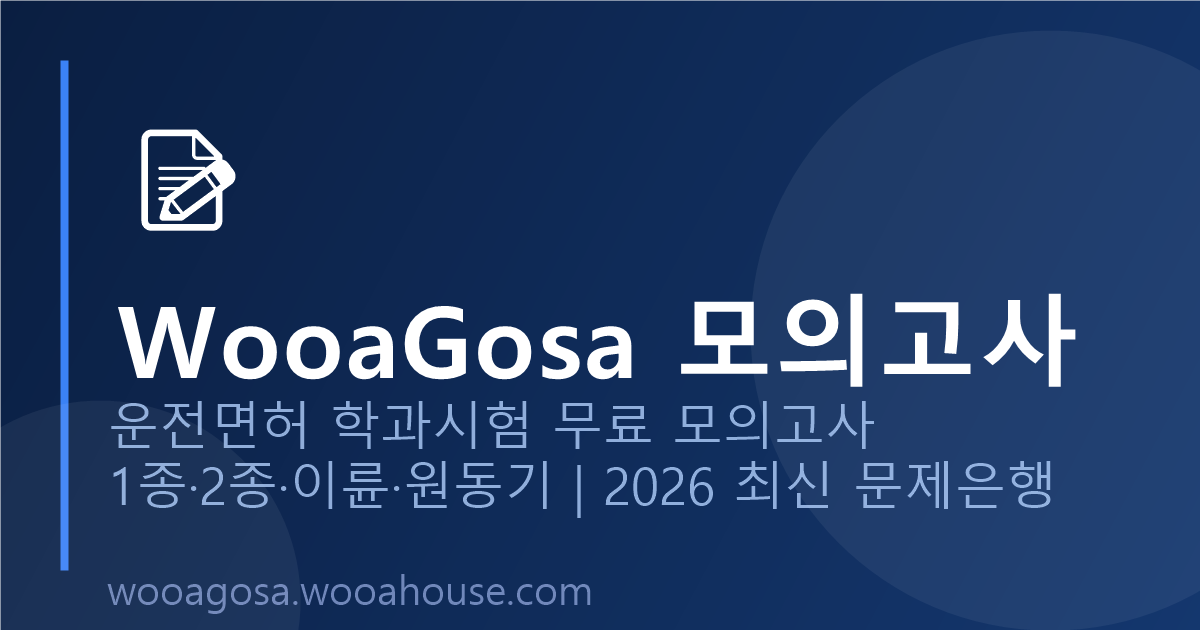
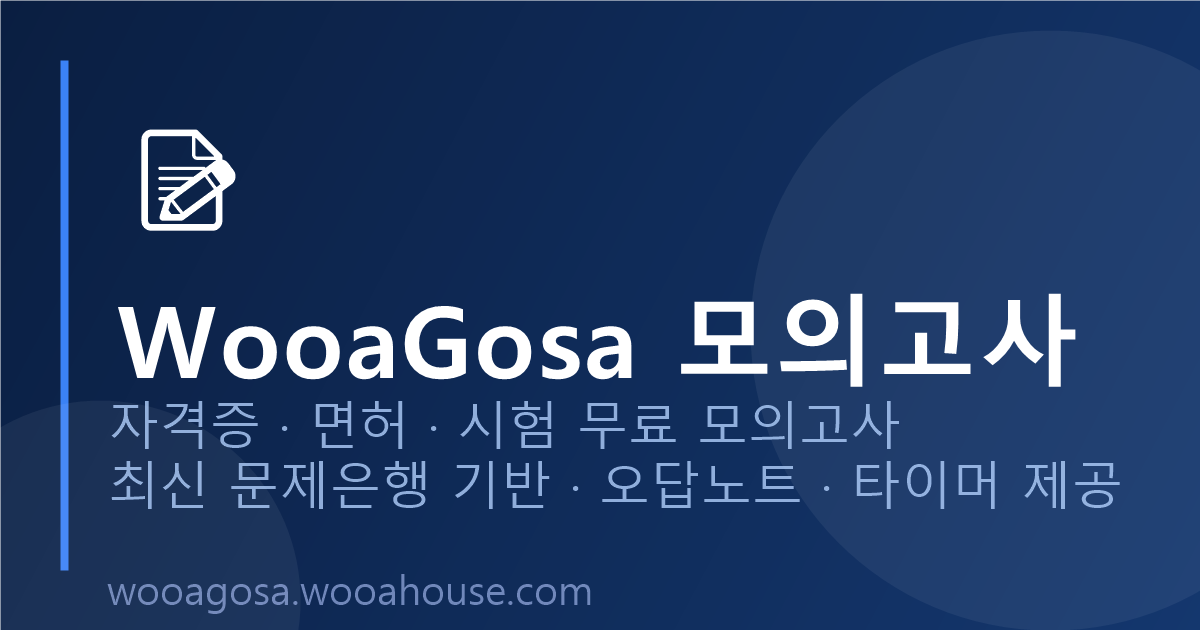
범용 모의고사 사이트로 브랜딩 수정
- og-image.png: '운전면허' → '자격증·면허·시험 무료 모의고사' 로 변경
- title: 자격증·면허·시험 무료 연습
- meta description, og:description, twitter:description 동일하게 수정
- JSON-LD description 수정

Changed region(s): [[0.0925, 0.6333, 0.925, 0.8143]]

diff --git a/index.html b/index.html
@@ -13,23 +13,23 @@
   <meta name="naver-site-verification" content="e97ec06f3d64c3b7795ba7724e1f0be02a26fb41" />
   <meta name="viewport" content="width=device-width, initial-scale=1.0">
   <link rel="icon" href="img/icon.svg" type="image/svg+xml">
-  <title>WooaGosa 모의고사 – 운전면허·자격증 무료 시험 연습</title>
-  <meta name="description" content="운전면허 1종·2종, 원동기 학과시험 무료 모의고사. 2026년 최신 문제은행 기반, 오답노트·타이머 제공. 브라우저에서 바로 시작.">
-  <meta name="keywords" content="모의고사, 운전면허, 학과시험, 1종 보통, 2종 보통, 이륜자동차, 원동기, 무료">
+  <title>WooaGosa 모의고사 – 자격증·면허·시험 무료 연습</title>
+  <meta name="description" content="자격증·면허·시험 무료 모의고사. 최신 문제은행 기반, 오답노트·타이머 제공. 브라우저에서 회원가입 없이 바로 시작.">
+  <meta name="keywords" content="모의고사, 자격증, 면허, 시험, 운전면허, 학과시험, 1종 보통, 2종 보통, 이륜자동차, 원동기, 무료">
   <meta name="robots" content="index, follow">
   <link rel="canonical" href="https://wooagosa.wooahouse.com/">
   <!-- Open Graph -->
   <meta property="og:type" content="website">
-  <meta property="og:title" content="WooaGosa 모의고사 – 운전면허 학과시험 무료 연습">
-  <meta property="og:description" content="2026년 최신 문제은행 기반 무료 모의고사. 운전면허 1·2종, 이륜·원동기 학과시험을 브라우저에서 바로!">
+  <meta property="og:title" content="WooaGosa 모의고사 – 자격증·면허·시험 무료 연습">
+  <meta property="og:description" content="자격증·면허·시험 무료 모의고사. 최신 문제은행 기반, 오답노트·타이머 제공. 브라우저에서 바로!">
   <meta property="og:url" content="https://wooagosa.wooahouse.com/">
   <meta property="og:image" content="https://wooagosa.wooahouse.com/img/og-image.png">
   <meta property="og:locale" content="ko_KR">
   <meta property="og:site_name" content="WooaGosa">
   <!-- Twitter Card -->
   <meta name="twitter:card" content="summary_large_image">
-  <meta name="twitter:title" content="WooaGosa 모의고사 – 운전면허 학과시험 무료 연습">
-  <meta name="twitter:description" content="2026년 최신 문제은행 기반 무료 모의고사. 운전면허 1·2종, 이륜·원동기 학과시험을 브라우저에서 바로!">
+  <meta name="twitter:title" content="WooaGosa 모의고사 – 자격증·면허·시험 무료 연습">
+  <meta name="twitter:description" content="자격증·면허·시험 무료 모의고사. 최신 문제은행 기반, 오답노트·타이머 제공. 브라우저에서 바로!">
   <meta name="twitter:image" content="https://wooagosa.wooahouse.com/img/og-image.png">
   <!-- JSON-LD -->
   <script type="application/ld+json">
@@ -38,7 +38,7 @@
     "@type": "WebSite",
     "name": "WooaGosa 모의고사",
     "url": "https://wooagosa.wooahouse.com/",
-    "description": "운전면허 학과시험 무료 모의고사 – 1종 대형/보통, 2종 보통/소형, 원동기장치자전거"
+    "description": "자격증·면허·시험 무료 모의고사 – 최신 문제은행 기반, 오답노트·타이머 제공"
   }
   </script>
   <script type="application/ld+json">